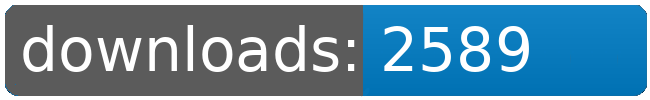
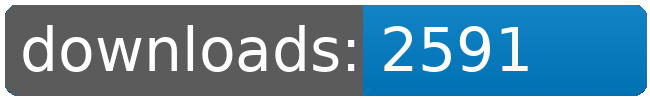
dl log written

Changed region(s): [[0.7077, 0.24, 0.8308, 0.72]]

diff --git a/README.md b/README.md
@@ -87,8 +87,8 @@
 		<td>2535</td>
 		<td>2558</td>
 		<td>2585</td>
-		<td>2589</td>
-		<td>+ 4</td>
+		<td>2591</td>
+		<td>+ 6</td>
 	</tr>
 	<tr>
 		<td>Zone.of.Control</td>
@@ -109,8 +109,8 @@
 		<td></td>
 		<td></td>
 		<td></td>
-		<td>21514</td>
-		<td>34</td>
+		<td>21516</td>
+		<td>36</td>
 	</tr>
 </table>
 </sub></sup>
@@ -179,8 +179,8 @@
 		<td>2535</td>
 		<td>2558</td>
 		<td>2585</td>
-		<td>2589</td>
-		<td>+ 4</td>
+		<td>2591</td>
+		<td>+ 6</td>
 	</tr>
 	<tr>
 		<td>Factory.Outlets</td>
@@ -223,8 +223,8 @@
 		<td></td>
 		<td></td>
 		<td></td>
-		<td>21514</td>
-		<td>34</td>
+		<td>21516</td>
+		<td>36</td>
 	</tr>
 </table>
 </sub></sup>
